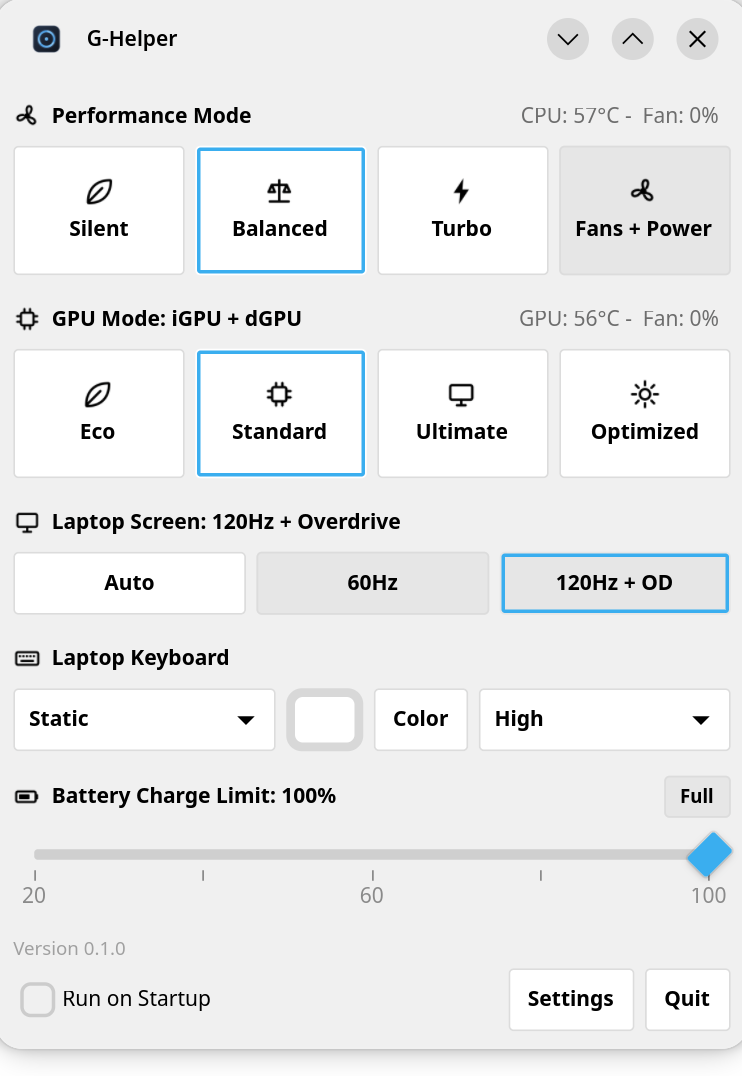
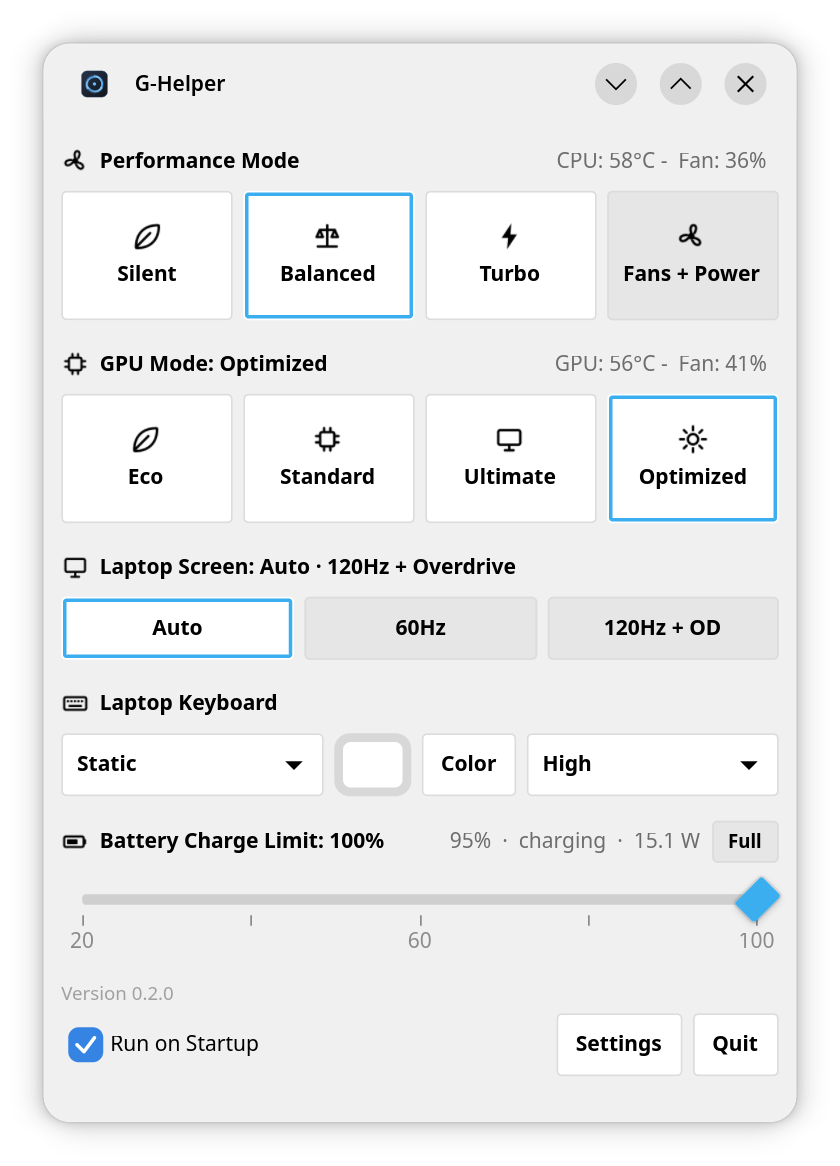
Package a man page and check metadata during the RPM build
- docs/ghelper-linux.1 documents every option, the config files, examples and
  the hotkey defaults; installed by make, install.sh and the RPM.
- %check runs the unit tests, desktop-file-validate and appstreamcli so a
  broken desktop entry or metainfo fails the build.  AppStream warnings are
  tolerated until a homepage URL exists.
- BuildRequires added for the toolchain used by %check.
- Desktop Categories reduced to one main category so validation is quiet.
- README screenshot refreshed; it now shows the battery readout.
- CI installs desktop-file-utils, which %check needs.

diff --git a/README.md b/README.md
@@ -114,6 +114,9 @@ Only one copy runs at a time. A second launch forwards its `--page` or
 `--minimized` option to the running window and exits immediately, so tray
 icons, telemetry and profile polling never duplicate.
 
+A man page is installed alongside the binary: `man ghelper-linux` lists every
+option, the config files and the hotkey defaults.
+
 ### One-shot actions
 
 The same binary can change a setting and exit, which makes desktop hotkeys
